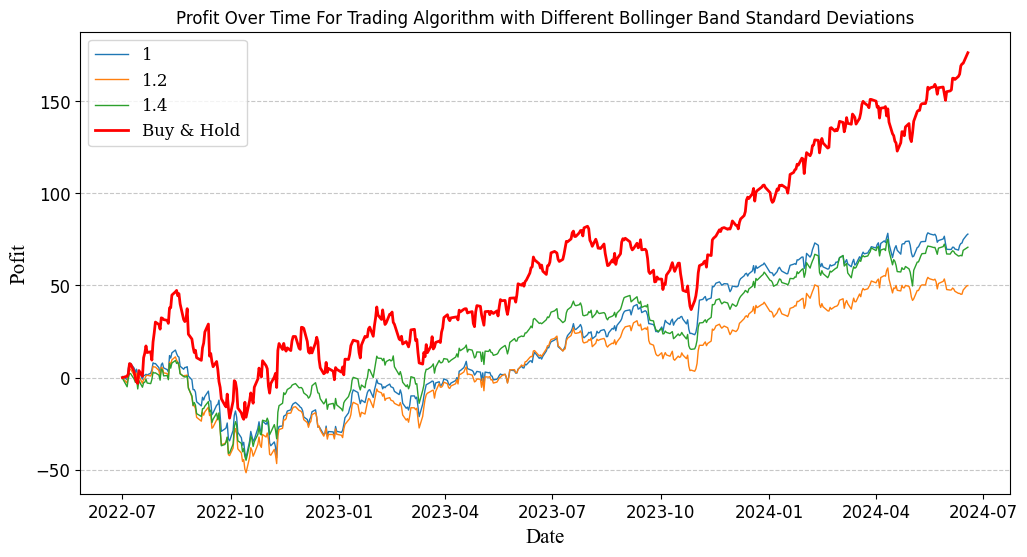
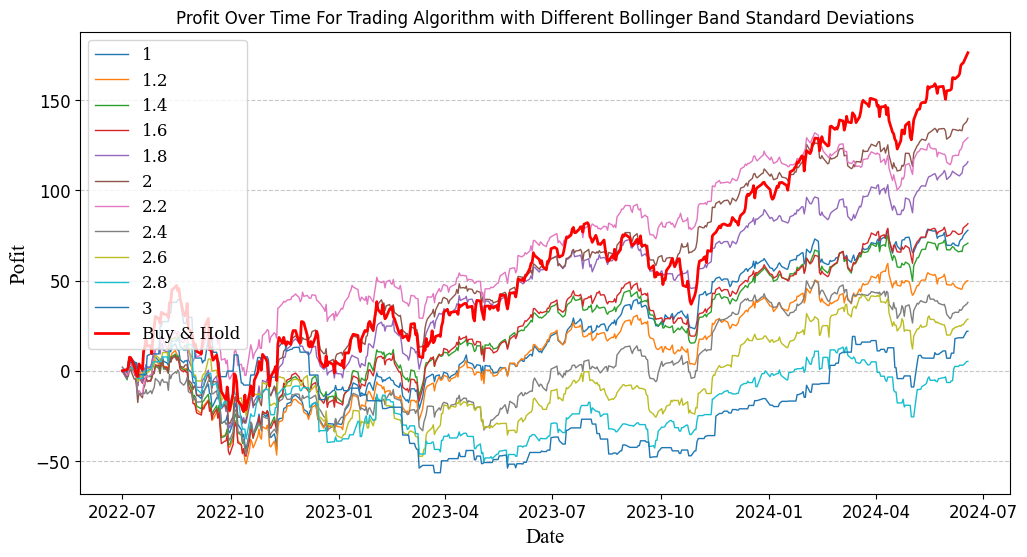
ran for without condition

diff --git a/Django_back_end/myapi/finance_tools/back_testing/back_testing.py b/Django_back_end/myapi/finance_tools/back_testing/back_testing.py
@@ -75,7 +75,7 @@ def execute_trades(historical_data, num_std_dev=2):
                 #save_trade_to_csv(order_data)
             
         # Execute sell 
-        elif current_position == 'Bought' and (latest_price >= upper_band):
+        elif current_position == 'Bought' and (latest_price >= bought_price) and (latest_price >= upper_band):
             #print(f"[{current_time}] Trade available. Last close: {last_close_formatted}, Lower Band: {lower_band_formatted}, "
                 #f"Upper Band: {upper_band_formatted}, Current Position: {current_position}")
             order_data = Order('filled', 'sell', 'SPY', 1, latest_price)
@@ -129,7 +129,7 @@ def plot_profit(dates, profits, buy_and_hold):
     plt.grid(axis='y', linestyle='--', alpha=0.7)
     plt.tick_params(axis='both', which='major', labelsize=12)
     plt.legend(loc='upper left', prop={'family': 'serif', 'size': 12})
-    plt.savefig('Profits_over_time_without_loss_avoidance.png', bbox_inches='tight')
+    plt.savefig('Profits_over_time.png', bbox_inches='tight')
     plt.show()
 
 historical_data = get_loaded_historical_data()
